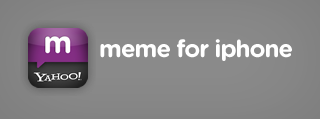
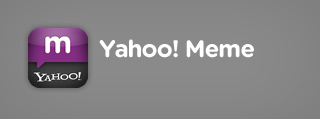
New assets for About window.

Changed region(s): [[0.3125, 0.3277, 0.9375, 0.5042]]

diff --git a/src/Resources/meme/ui/about/about.js b/src/Resources/meme/ui/about/about.js
@@ -142,7 +142,7 @@
 			
 			var copyrightLabel = Ti.UI.createLabel({
 				text: L('about_copyright'),
-				color: '#333333',
+				color: '#4E4E4E',
 				font: { fontSize: 11, fontFamily: 'Helvetica' },
 				width: 320,
 				textAlign: 'center'
